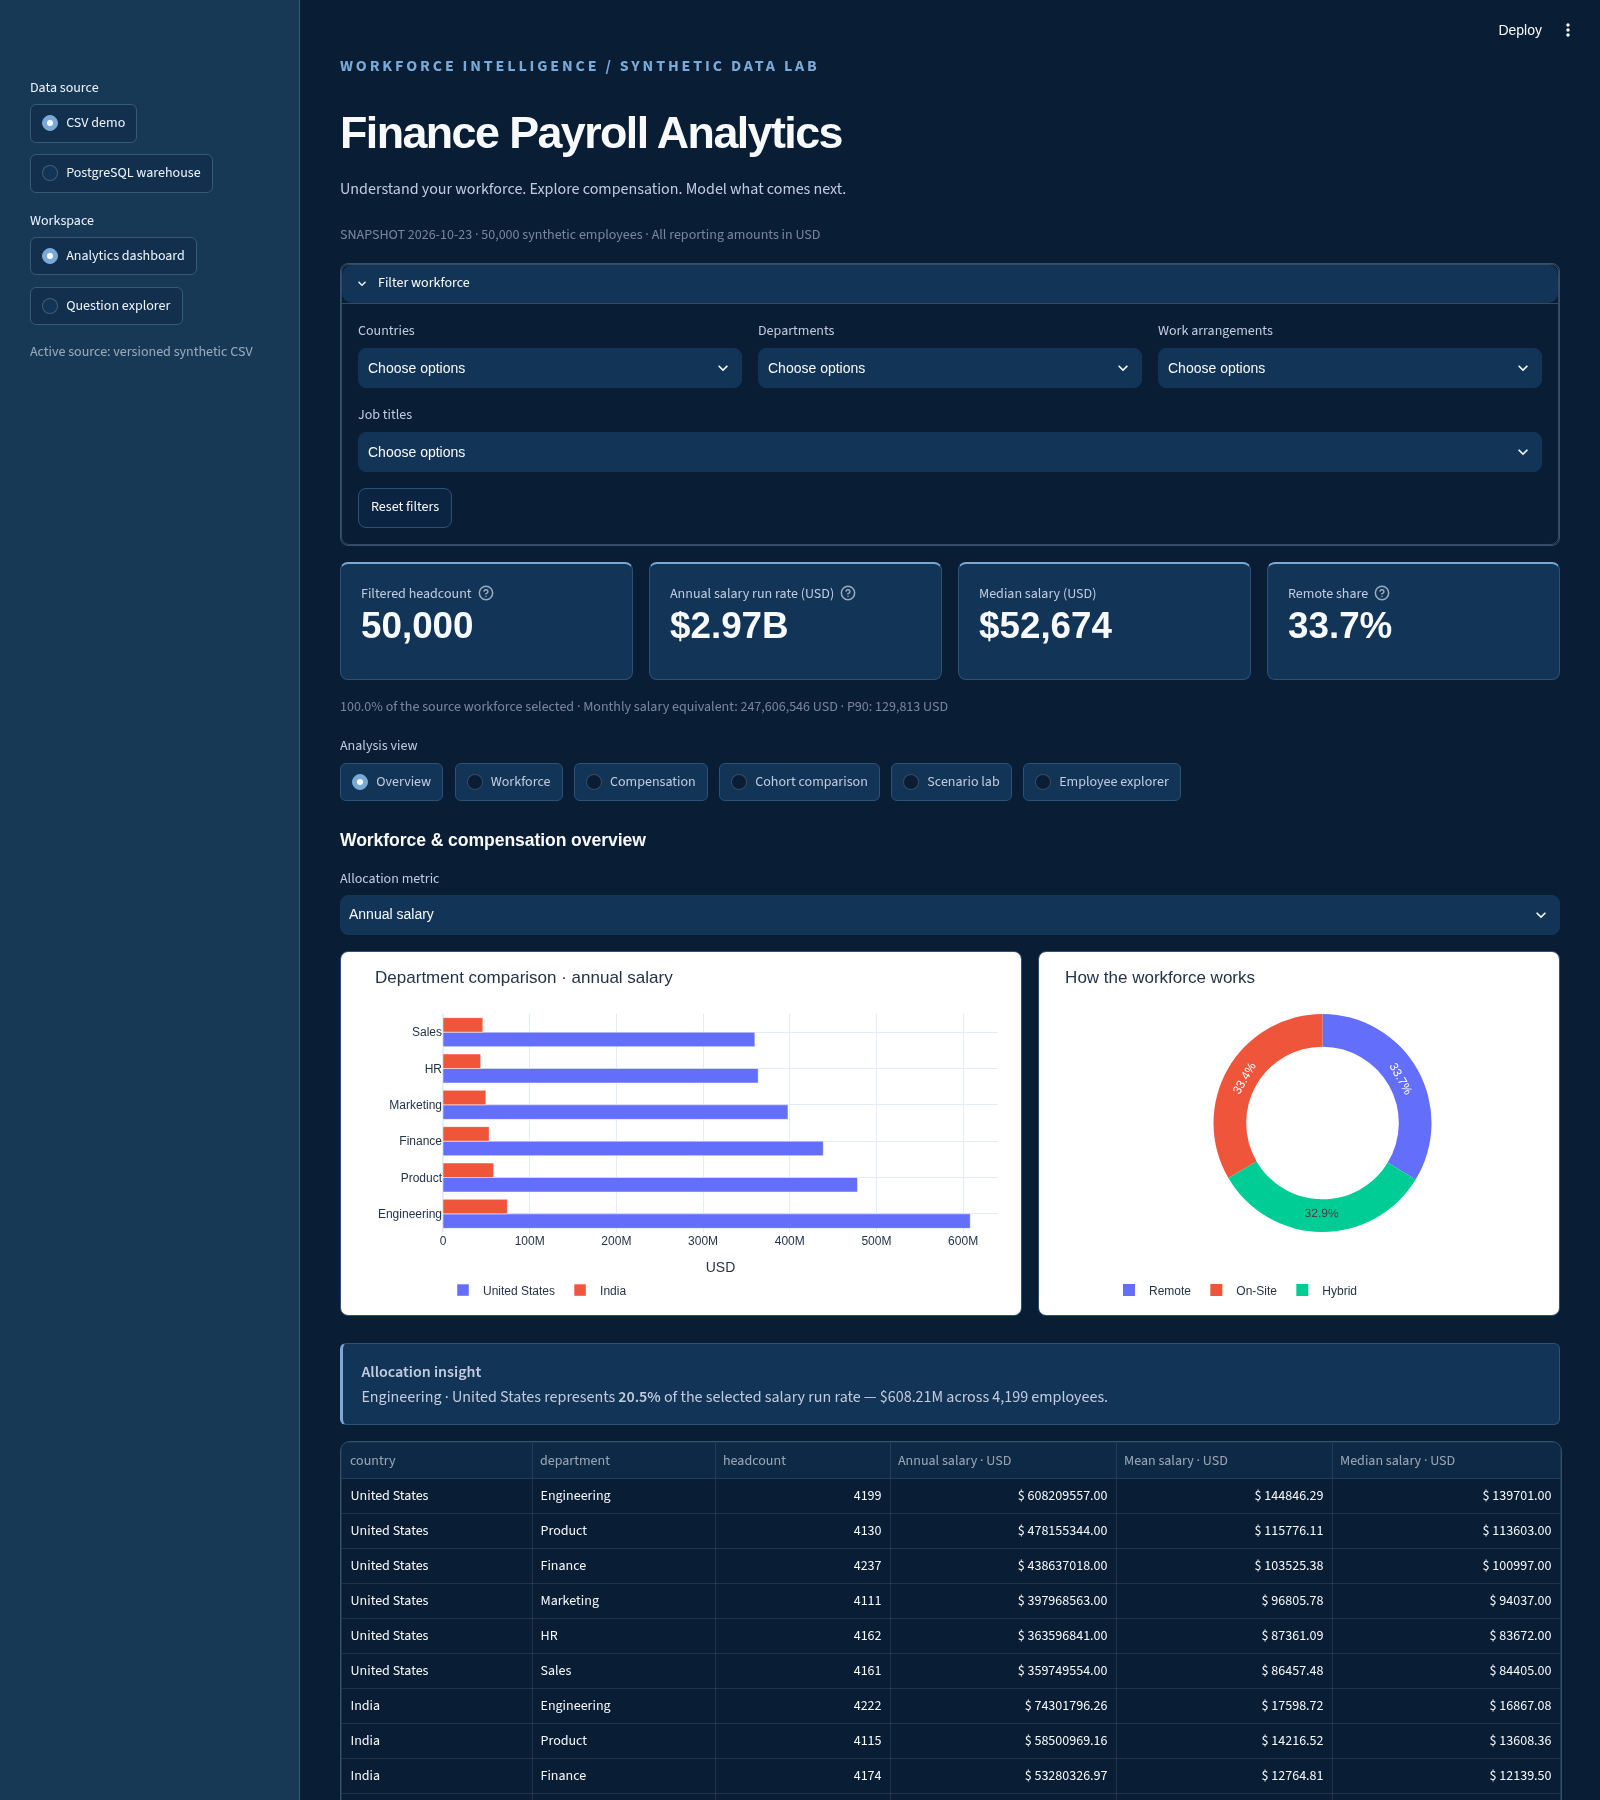
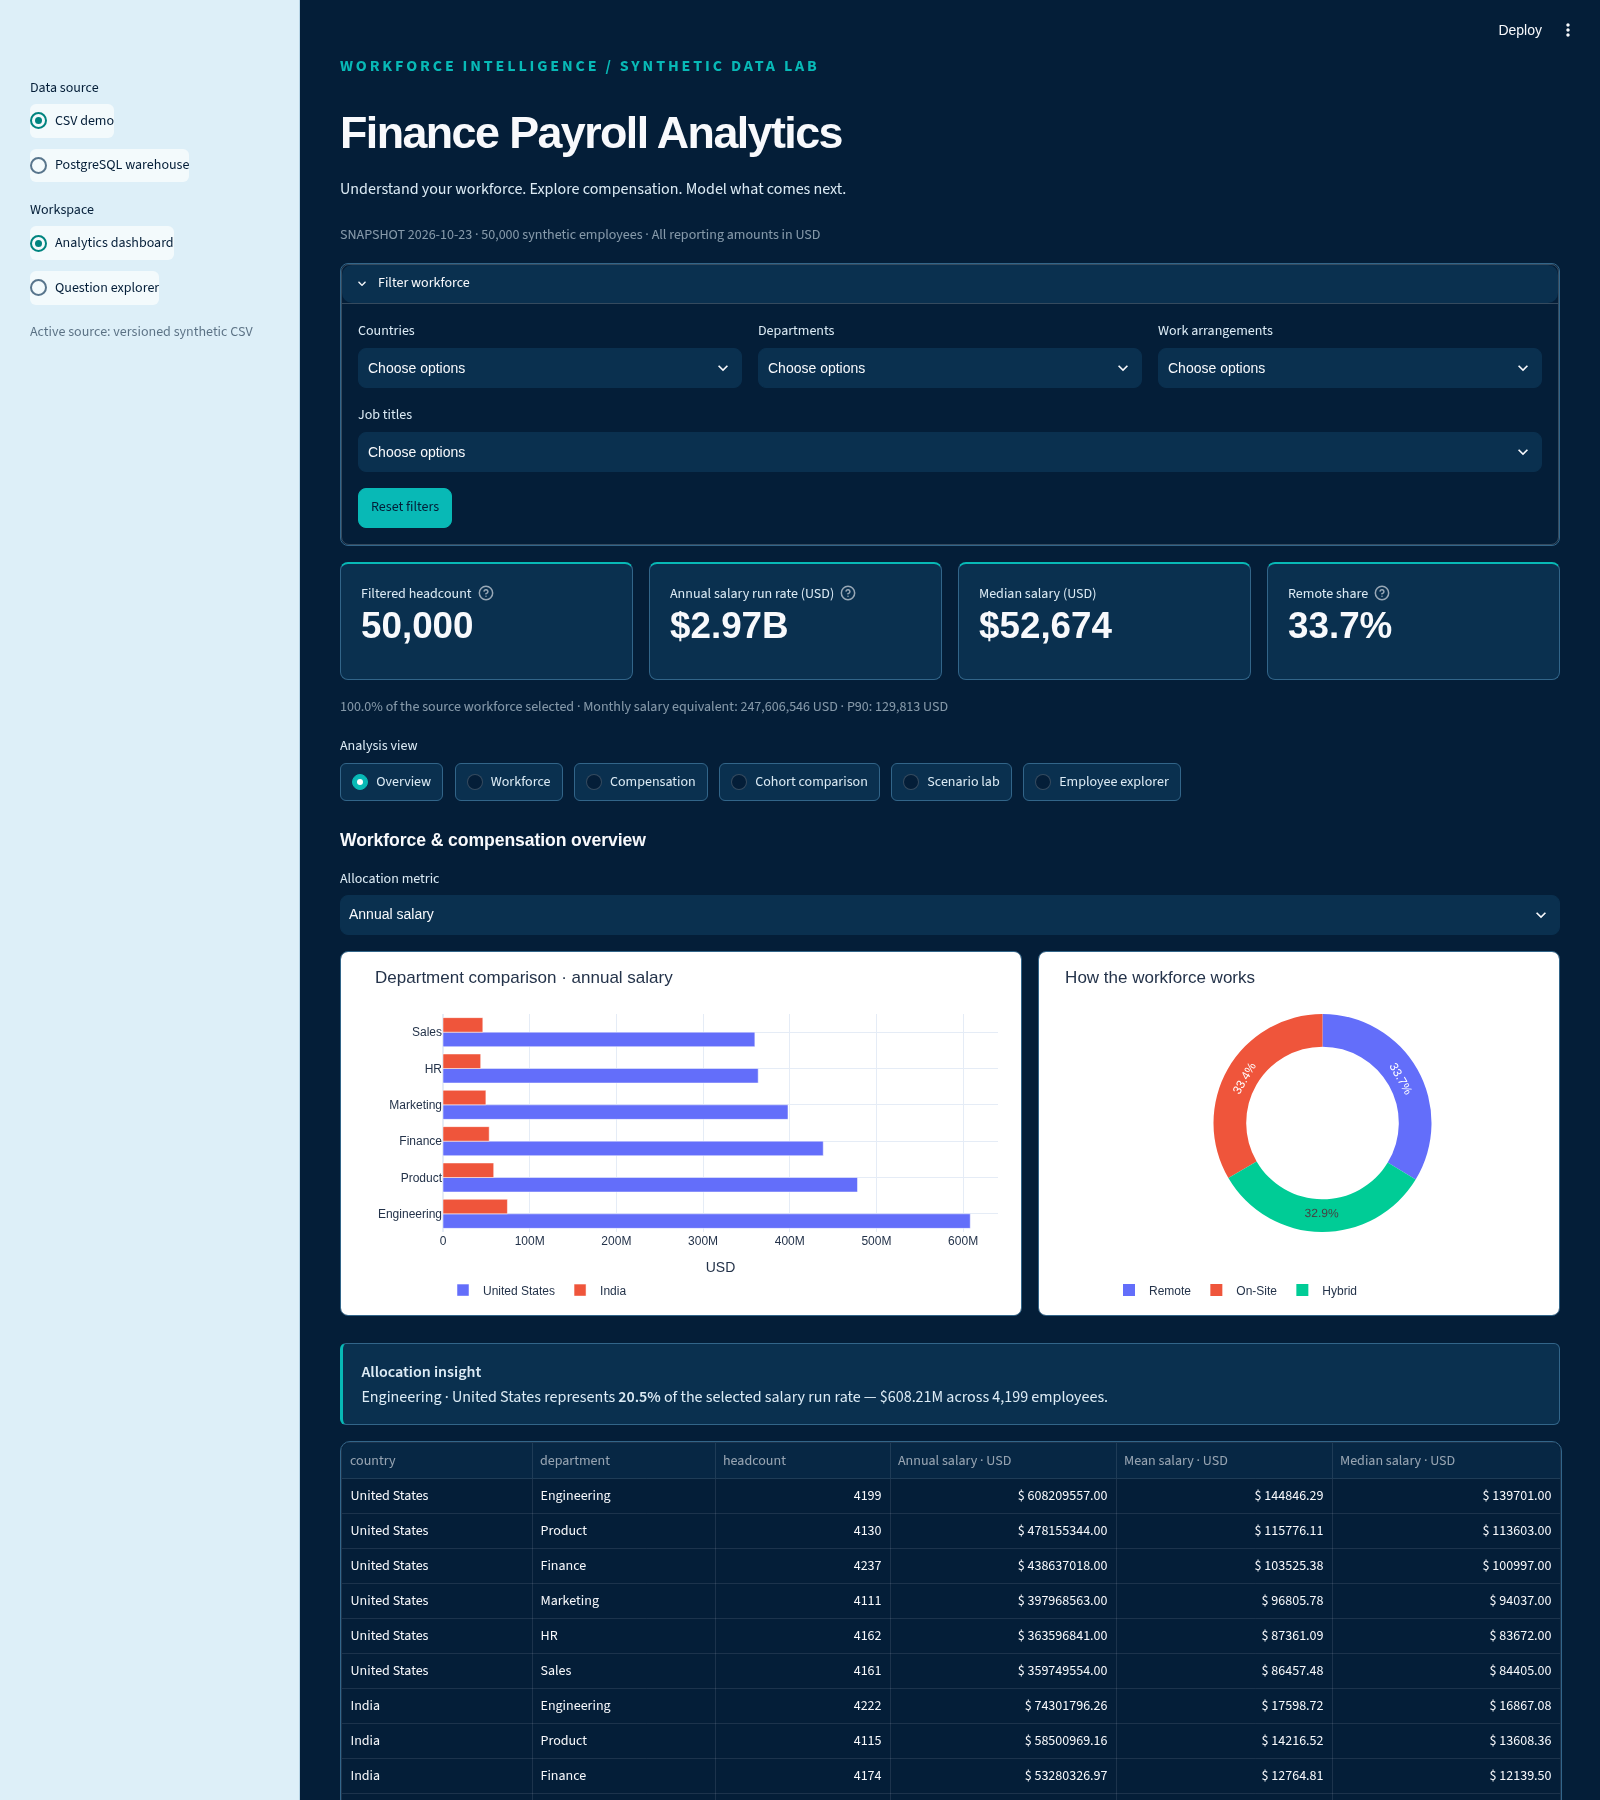
Darken main canvas and clarify teal buttons and sidebar radio selection

Changed region(s): [[0.0, 0.0, 0.1875, 1.0], [0.2188, 0.2489, 0.2812, 0.3111]]

diff --git a/app/style.css b/app/style.css
@@ -1,11 +1,11 @@
 :root { color-scheme: dark; }
 .stApp {
-    background: #073867;
+    background: #041e38;
     color: #f8f9fc;
     font-family: Inter, "Segoe UI", Arial, sans-serif;
 }
-[data-testid="stSidebar"] { background: #0c426d; border-right: 1px solid #326589; }
-[data-testid="stHeader"] { background: #073867; }
+[data-testid="stSidebar"] { background: #0a304f; border-right: 1px solid #326589; }
+[data-testid="stHeader"] { background: #041e38; }
 .block-container { max-width: 1640px; padding: 2.3rem 2.5rem 3rem; }
 h1, h2, h3 { font-family: Inter, "Segoe UI", Arial, sans-serif !important; letter-spacing: -.035em; color: #f8f9fc !important; }
 h1 { font-size: clamp(1.8rem, 3vw, 2.8rem) !important; font-weight: 750 !important; margin-bottom: .25rem; }
@@ -13,27 +13,27 @@ h2 { font-size: 1.5rem !important; } h3 { font-size: 1.1rem !important; }
 .subtitle { color: #dcebf5; font-size: .98rem; margin-bottom: 1.4rem; }
 .eyebrow { color: #08b9b6; text-transform: uppercase; font-size: .7rem; letter-spacing: .18em; font-weight: 700; margin: 0 0 .5rem; }
 [data-testid="stMetric"] {
-    background: #0c426d;
+    background: #0a304f;
     border: 1px solid #326589; border-top: 2px solid #08b9b6;
     border-radius: 8px; padding: 1.1rem 1.25rem; min-height: 118px;
     box-shadow: none;
 }
 [data-testid="stMetricLabel"] { color: #dcebf5; font-size: .82rem; }
 [data-testid="stMetricValue"] { color: #f8f9fc; font-size: clamp(1.65rem,2.4vw,2.3rem); font-weight: 650; }
-[data-testid="stExpander"] { border: 1px solid #326589; border-radius: 8px; background: #073867; }
-[data-testid="stExpander"] summary { background: #0c426d; border-radius: 10px; }
+[data-testid="stExpander"] { border: 1px solid #326589; border-radius: 8px; background: #041e38; }
+[data-testid="stExpander"] summary { background: #0a304f; border-radius: 10px; }
 [data-testid="stRadio"] label, [data-testid="stMultiSelect"] label,
 [data-testid="stSelectbox"] label, [data-testid="stSlider"] label { color: #dcebf5 !important; }
-[data-baseweb="select"] > div, [data-baseweb="input"] { background: #0c426d !important; border-color: #326589 !important; }
+[data-baseweb="select"] > div, [data-baseweb="input"] { background: #0a304f !important; border-color: #326589 !important; }
 input, textarea { color: #f8f9fc !important; -webkit-text-fill-color: #f8f9fc !important; }
 [data-testid="stButton"] button, [data-testid="stDownloadButton"] button {
     border-radius: 8px; border-color: #326589; font-weight: 600;
 }
-[data-testid="stButton"] button[kind="primary"] { background: #08b9b6; color: #073867; }
+[data-testid="stButton"] button[kind="primary"] { background: #08b9b6; color: #041e38; }
 [data-testid="stPlotlyChart"] { border: 1px solid #326589; border-radius: 8px; overflow: hidden; }
 [data-testid="stDataFrame"] { border: 1px solid #326589; border-radius: 10px; overflow: hidden; }
 [data-testid="stCaptionContainer"] { color: #dcebf5; }
-.agent-message { background: #0c426d; border: 1px solid #326589; padding: 1.2rem; border-radius: 8px; margin-bottom: 1rem; }
+.agent-message { background: #0a304f; border: 1px solid #326589; padding: 1.2rem; border-radius: 8px; margin-bottom: 1rem; }
 hr { border-color: #326589 !important; }
 @media (max-width: 760px) {
     .block-container { padding: 1.2rem 1rem; }
@@ -51,18 +51,18 @@ hr { border-color: #326589 !important; }
 [data-testid="stRadio"] [role="radiogroup"] { gap: .7rem; }
 [data-testid="stRadio"] [role="radiogroup"] label {
     padding: .45rem .7rem; border: 1px solid #326589;
-    border-radius: 6px; background: #0c426d;
+    border-radius: 6px; background: #0a304f;
 }
-.insight-card { background: #0c426d; border: 1px solid #326589; border-left: 3px solid #08b9b6; border-radius: 6px; padding: .9rem 1.15rem; margin: .7rem 0 1rem; color: #dcebf5; }
+.insight-card { background: #0a304f; border: 1px solid #326589; border-left: 3px solid #08b9b6; border-radius: 6px; padding: .9rem 1.15rem; margin: .7rem 0 1rem; color: #dcebf5; }
 
 /* Teal accents on flat navy surfaces. */
 [data-testid="stButton"] button[kind="primary"] {
     background: #08b9b6 !important; border-color: #08b9b6 !important;
-    color: #073867 !important; -webkit-text-fill-color: #073867 !important;
+    color: #041e38 !important; -webkit-text-fill-color: #041e38 !important;
 }
 [data-testid="stMetric"]:nth-child(1) { border-top-color: #08b9b6; }
 [data-testid="stSidebar"] .eyebrow { color: #1d6ba4; }
-::selection { background: #08b9b6; color: #073867; }
+::selection { background: #08b9b6; color: #041e38; }
 
 /* Reference-inspired navy, teal, pale blue and white palette. */
 [data-testid="stSidebar"] { background: #ddeff8 !important; border-right: 1px solid #b7d4e5; }
@@ -71,6 +71,63 @@ hr { border-color: #326589 !important; }
 [data-testid="stSidebar"] [data-testid="stCaptionContainer"] p,
 [data-testid="stSidebar"] p,
 [data-testid="stSidebar"] h2,
-[data-testid="stSidebar"] h3 { color: #073867 !important; }
+[data-testid="stSidebar"] h3 { color: #041e38 !important; }
 [data-testid="stSidebar"] [role="radiogroup"] label { background: #f3fafc !important; border-color: #b7d4e5 !important; }
-[data-testid="stSidebar"] button { color: #073867 !important; }
+[data-testid="stSidebar"] button { color: #041e38 !important; }
+
+/* Teal action buttons with dark text and a visible keyboard-focus ring. */
+[data-testid="stButton"] button,
+[data-testid="stDownloadButton"] button {
+    background-color: #08b9b6 !important;
+    border-color: #08b9b6 !important;
+    color: #041e38 !important;
+    -webkit-text-fill-color: #041e38 !important;
+}
+[data-testid="stButton"] button:hover,
+[data-testid="stDownloadButton"] button:hover {
+    background-color: #27cbc6 !important;
+    border-color: #27cbc6 !important;
+}
+[data-testid="stButton"] button:focus-visible,
+[data-testid="stDownloadButton"] button:focus-visible {
+    outline: 2px solid #f8f9fc;
+    outline-offset: 3px;
+}
+[data-testid="stButton"] button:disabled,
+[data-testid="stDownloadButton"] button:disabled { opacity: .5; }
+
+/* Sidebar radio options: plain hollow rings, with a dot only for selection. */
+[data-testid="stSidebar"] [data-testid="stRadioOption"] {
+    background: transparent !important;
+    border: 0 !important;
+    padding: .35rem 0 !important;
+    border-radius: 0;
+}
+[data-testid="stSidebar"] [data-testid="stRadioOption"] > div > div:first-child {
+    width: 17px !important;
+    height: 17px !important;
+    border: 2px solid #58758c !important;
+    border-radius: 50% !important;
+    background: transparent !important;
+    box-shadow: none !important;
+    display: flex;
+    align-items: center;
+    justify-content: center;
+}
+[data-testid="stSidebar"] [data-testid="stRadioOption"] > div > div:first-child > div {
+    width: 7px !important;
+    height: 7px !important;
+    border-radius: 50% !important;
+    background: transparent !important;
+    box-shadow: none !important;
+}
+[data-testid="stSidebar"] [data-testid="stRadioOption"]:has(input:checked) > div > div:first-child {
+    border-color: #00847f !important;
+}
+[data-testid="stSidebar"] [data-testid="stRadioOption"]:has(input:checked) > div > div:first-child > div {
+    background: #00847f !important;
+}
+[data-testid="stSidebar"] [data-testid="stRadioOption"]:has(input:focus-visible) {
+    outline: 2px solid #00847f;
+    outline-offset: 3px;
+}
